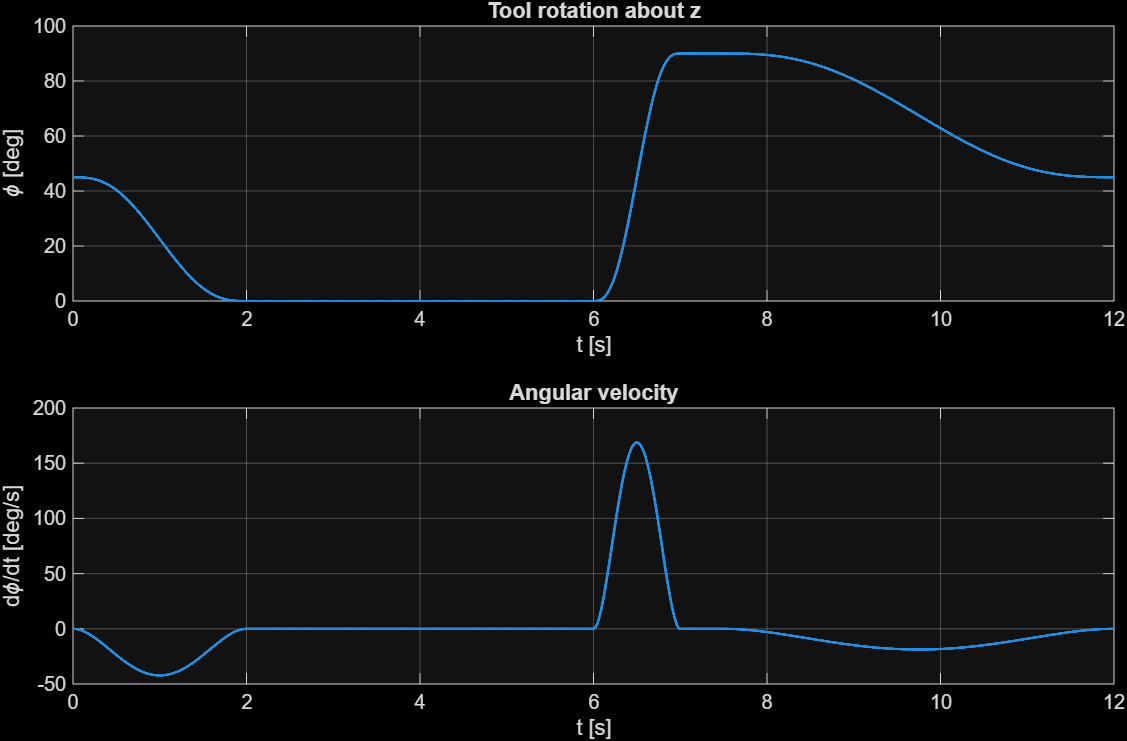
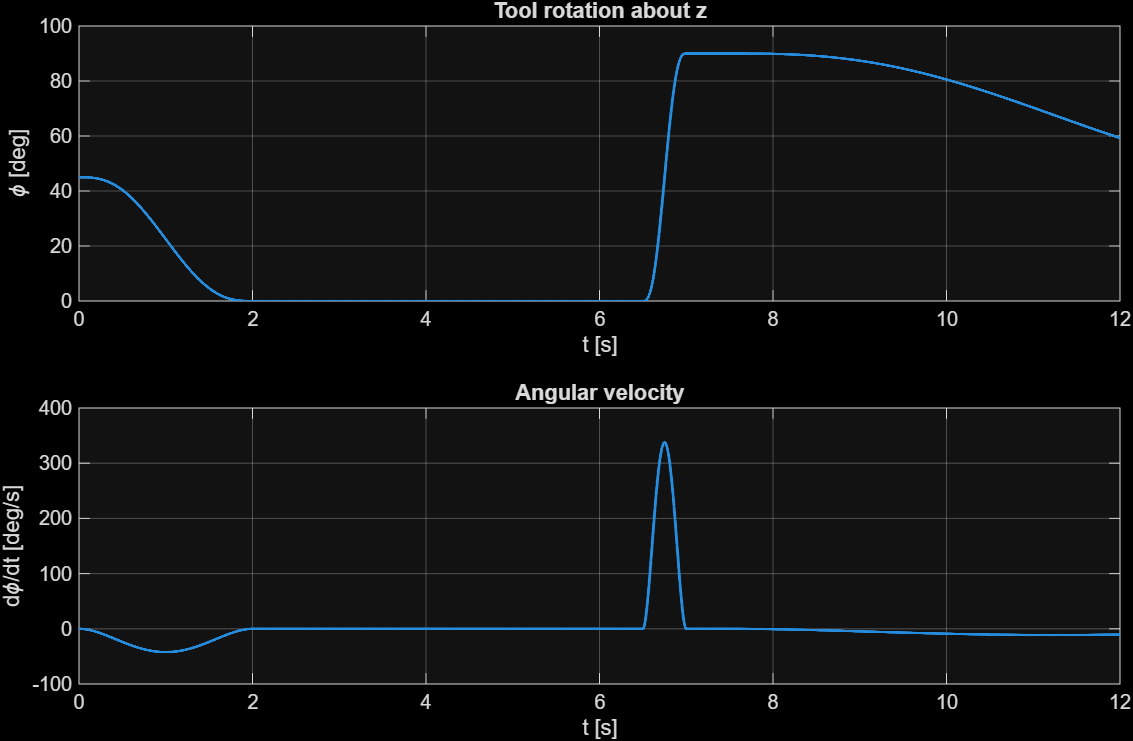
new pose

diff --git a/plan_trajectory.m b/plan_trajectory.m
@@ -17,12 +17,13 @@ dt = timing.dt;
 T1 = timing.t_appr;
 T2 = T1 + timing.t_track;
 T3 = T2 + timing.t_trans;
-T4 = T3 + timing.t_desc;
-T5 = T4 + timing.t_hold;
-T6 = timing.T_total - T5;
+T4 = T3 + timing.t_lower;
+T5 = T4 + timing.t_screw;
+T6 = T5 + timing.t_hold;
+T7 = timing.T_total - T6;
 
 % Safety checks
-assert(T6 > 0, 'Phase durations exceed T_total.');
+assert(T7 > 0, 'Phase durations exceed T_total.');
 assert(T3 >= geo.beltB_dur, 'Assembly starts before belt B has stopped.');
 
 % Velocity vector of Conveyor A
@@ -64,22 +65,30 @@ for k = 1:N
         w(k) = 0;
 
     elseif tk <= T4
-        % Phase 4: descend and screw
+        % Phase 4: lower to entry (vertical, no rotation)
         t_phase = tk - T3;
-        [p(:,k), v(:,k)] = poly5_vec(poses.p_above_B, poses.p_assembly, ...
-                                     [0;0;0], [0;0;0], timing.t_desc, t_phase);
-        [phi(k), w(k)] = poly5_scalar(poses.phi_above_B, poses.phi_assembly, ...
-                                      0, 0, timing.t_desc, t_phase);
+        [p(:,k), v(:,k)] = poly5_vec(poses.p_above_B, poses.p_entry_B, ...
+                                     [0;0;0], [0;0;0], timing.t_lower, t_phase);
+        phi(k) = poses.phi_entry_B;
+ 
     elseif tk <= T5
-        % Phase 5: hold at assembly
+        % Phase 5: screw into socket (vertical + 90° rotation)
+        t_phase = tk - T4;
+        [p(:,k), v(:,k)] = poly5_vec(poses.p_entry_B, poses.p_assembly, ...
+                                     [0;0;0], [0;0;0], timing.t_screw, t_phase);
+        [phi(k), w(k)] = poly5_scalar(poses.phi_entry_B, poses.phi_assembly, ...
+                                      0, 0, timing.t_screw, t_phase);
+
+    elseif tk <= T6
+        % Phase 6: hold at assembly
         p(:,k) = poses.p_assembly;
         phi(k) = poses.phi_assembly;
 
     else
-        % Phase 6: return home
-        t_phase = tk - T5;
+        % Phase 7: return home
+        t_phase = tk - T6;
         [p(:,k), v(:,k)] = poly5_vec(poses.p_assembly, poses.p_home, ...
-                                     [0;0;0], [0;0;0], T6, t_phase);
+                                     [0;0;0], [0;0;0], T7, t_phase);
         [phi(k), w(k)] = poly5_scalar(poses.phi_assembly, poses.phi_home, ...
                                       0, 0, T6, t_phase);
     end

diff --git a/key_poses.m b/key_poses.m
@@ -20,12 +20,17 @@ poses.phi_grasp = 0;
 
 % 3. Above Part B: final position, clearance height
 xB = geo.beltB_x0 + geo.beltB_vx * geo.beltB_dur;
-clearance = geo.partA_offset;   % safe hover distance above Part B before insertion
+clearance = 0.30;   % safe hover distance above Part B before insertion
 z_above_B = geo.beltB_z + geo.partB_h + clearance;
 poses.p_above_B = [xB; geo.beltB_y; z_above_B];
 poses.phi_above_B = poses.phi_grasp;
 
-% 4. Assembly
+% 4. Entry: screw tip exactly at Part B's top surface
+z_entry_B = geo.beltB_z + geo.partB_h + geo.partA_offset;
+poses.p_entry_B = [xB; geo.beltB_y; z_entry_B];
+poses.phi_entry_B = poses.phi_above_B;   % no rotation yet
+
+% 5. Assembly: screw fully inserted
 z_assembly = geo.beltB_z + geo.partB_h - geo.partB_socket_d + geo.partA_offset;
 poses.p_assembly = [xB; geo.beltB_y; z_assembly];
 poses.phi_assembly = poses.phi_above_B + pi/2;   % rotation/screwing

diff --git a/main_part1.m b/main_part1.m
@@ -41,8 +41,9 @@ timing.dt = 1e-3;
 timing.T_total = 12.0;
 timing.t_appr = 2.0;    % home -> grasp
 timing.t_track = 0.5;   % follow belt A while the gripper closes
-timing.t_trans = 3.5;   % grasp end -> above Part B (90 deg rotation)
-timing.t_desc = 1.0;    % descend onto Part B
+timing.t_trans = 3.5;   % grasp end -> above Part B
+timing.t_lower = 0.5;   % above Part B -> entry (vertical, no rotation)
+timing.t_screw = 0.5;   % entry -> assembly (vertical + 90° rotation)
 timing.t_hold = 0.5;    % gripper opens
 
 %% 4. Key poses and trajectory

diff --git a/animate_scene.m b/animate_scene.m
@@ -33,7 +33,7 @@ end
 
 % Define key animation trigger times within a single cycle
 T2 = timing.t_appr + timing.t_track;   % gripper closes
-T5 = T2 + timing.t_trans + timing.t_desc + timing.t_hold;   % gripper opens
+T5 = T2 + timing.t_trans + timing.t_lower + timing.t_screw + timing.t_hold;   % gripper opens
 
 % Initialize 3D animation figure and workspace
 ws = [-1 3 -2 2 0 3];   % workspace limits
